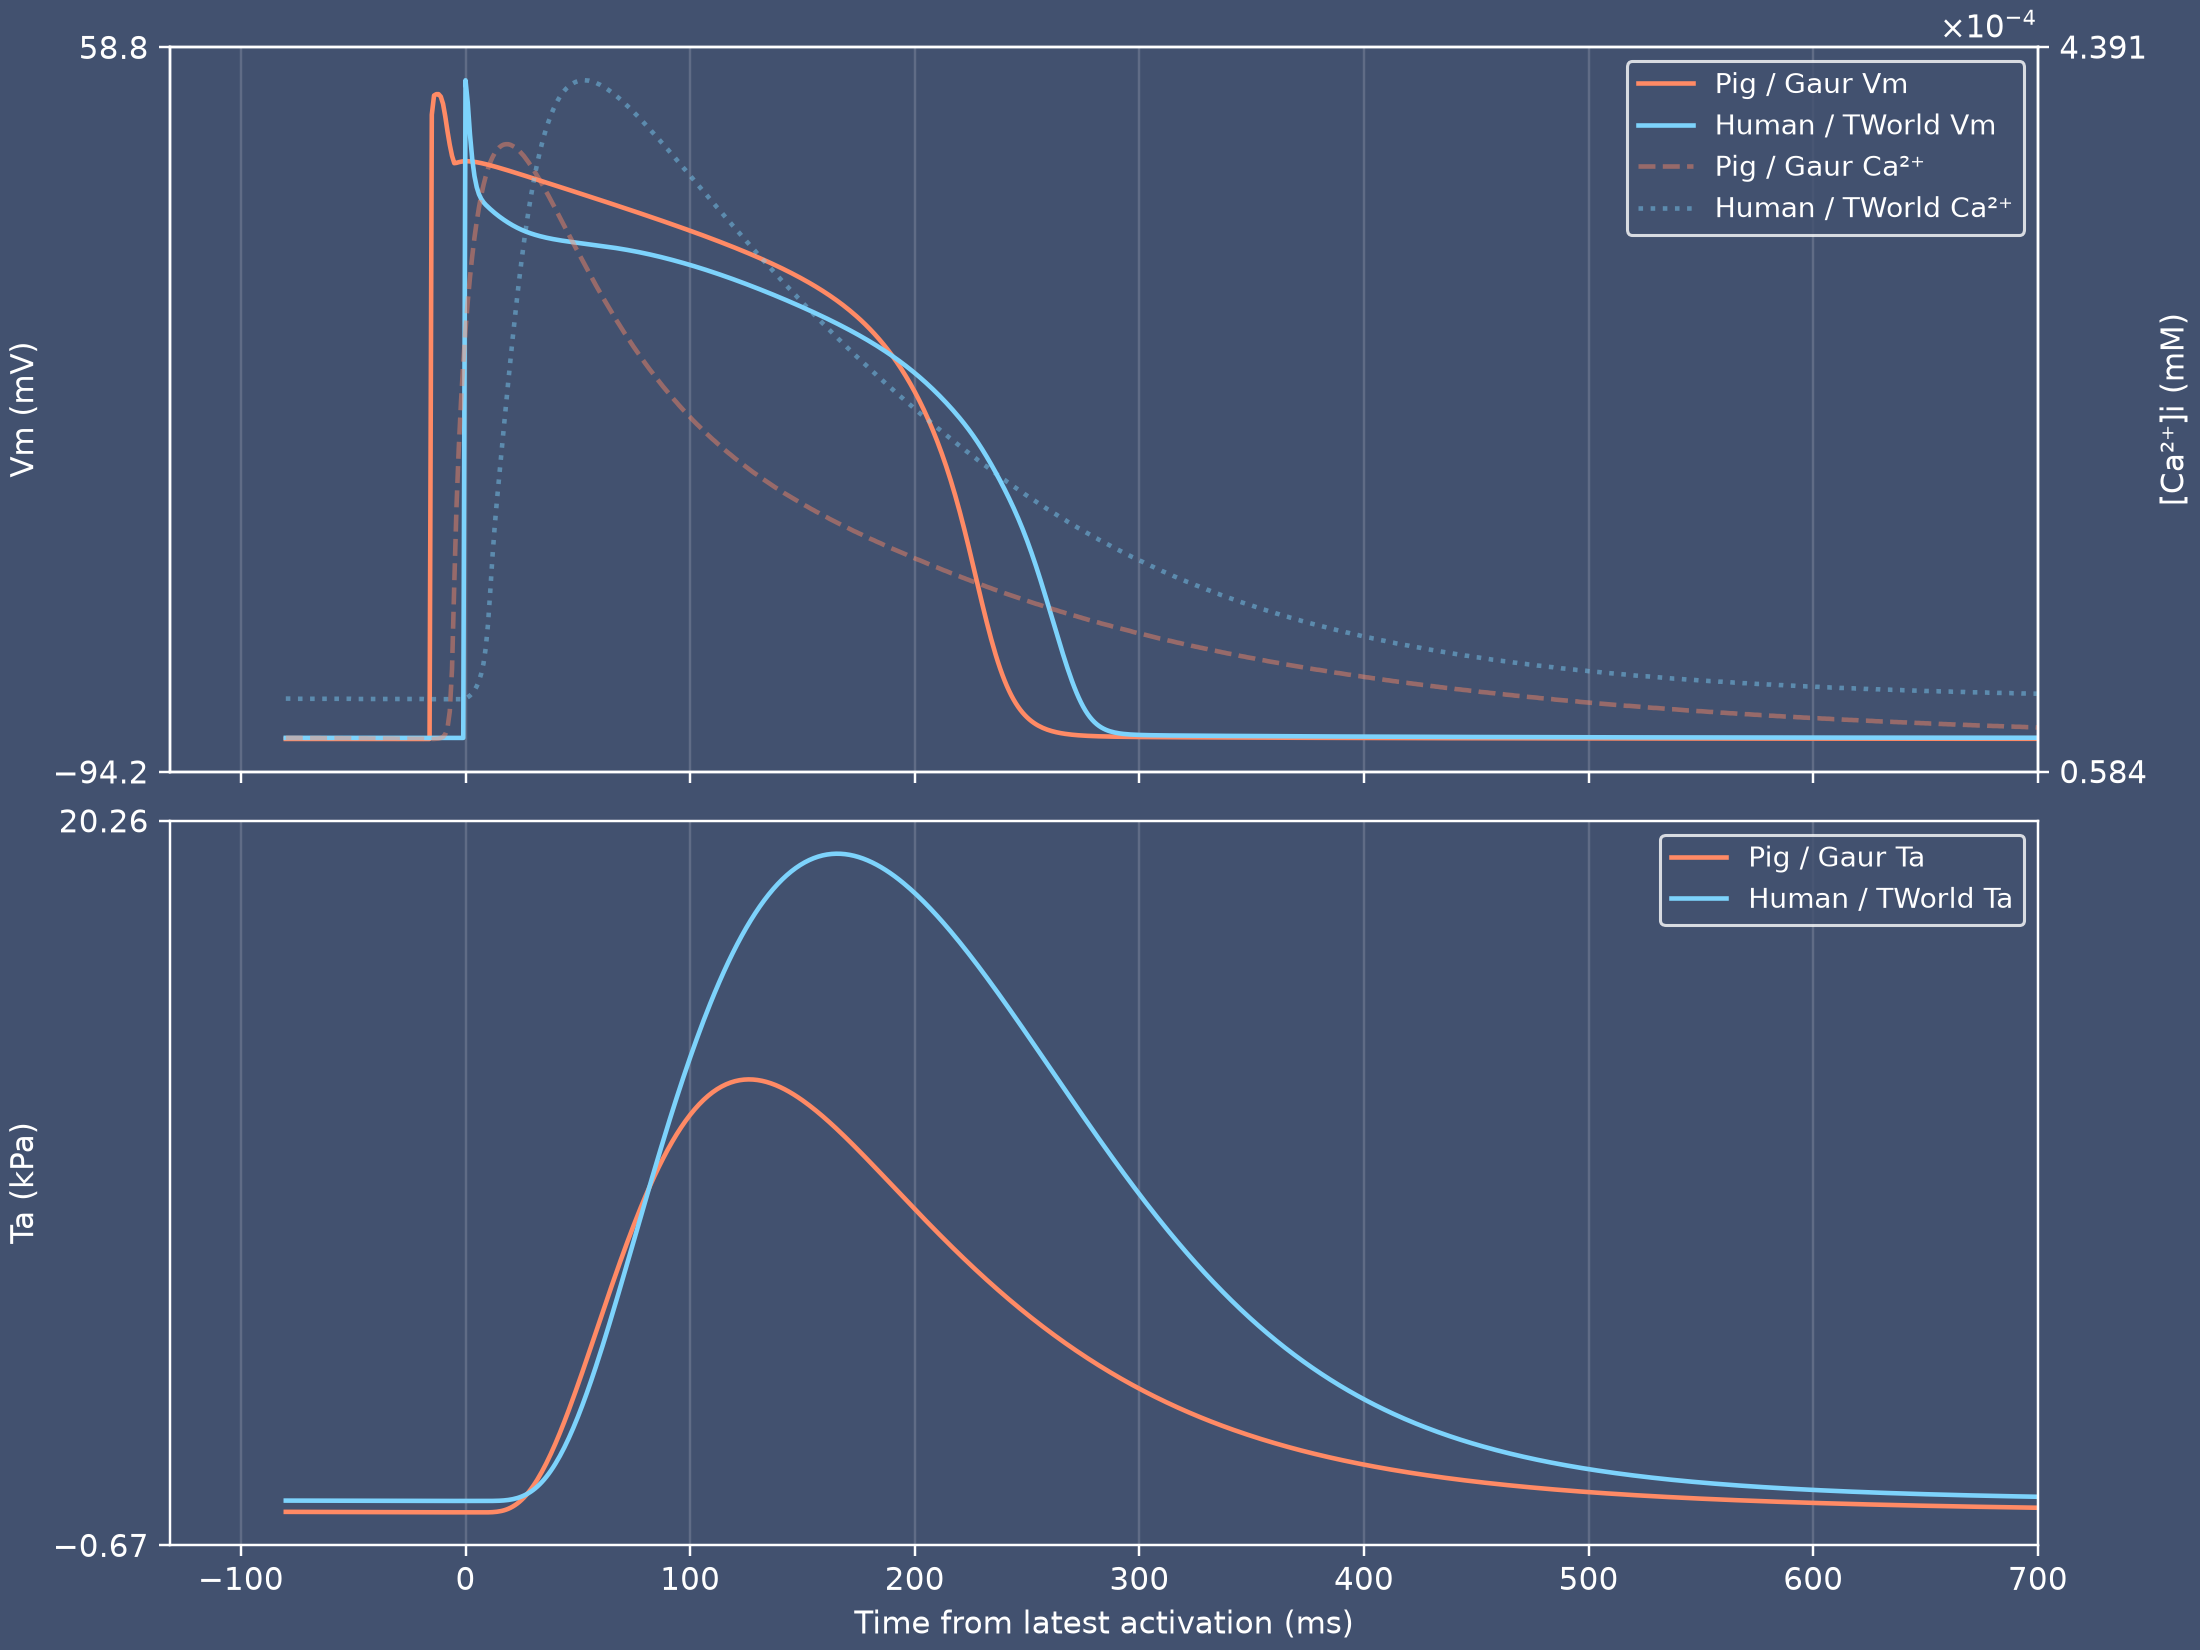
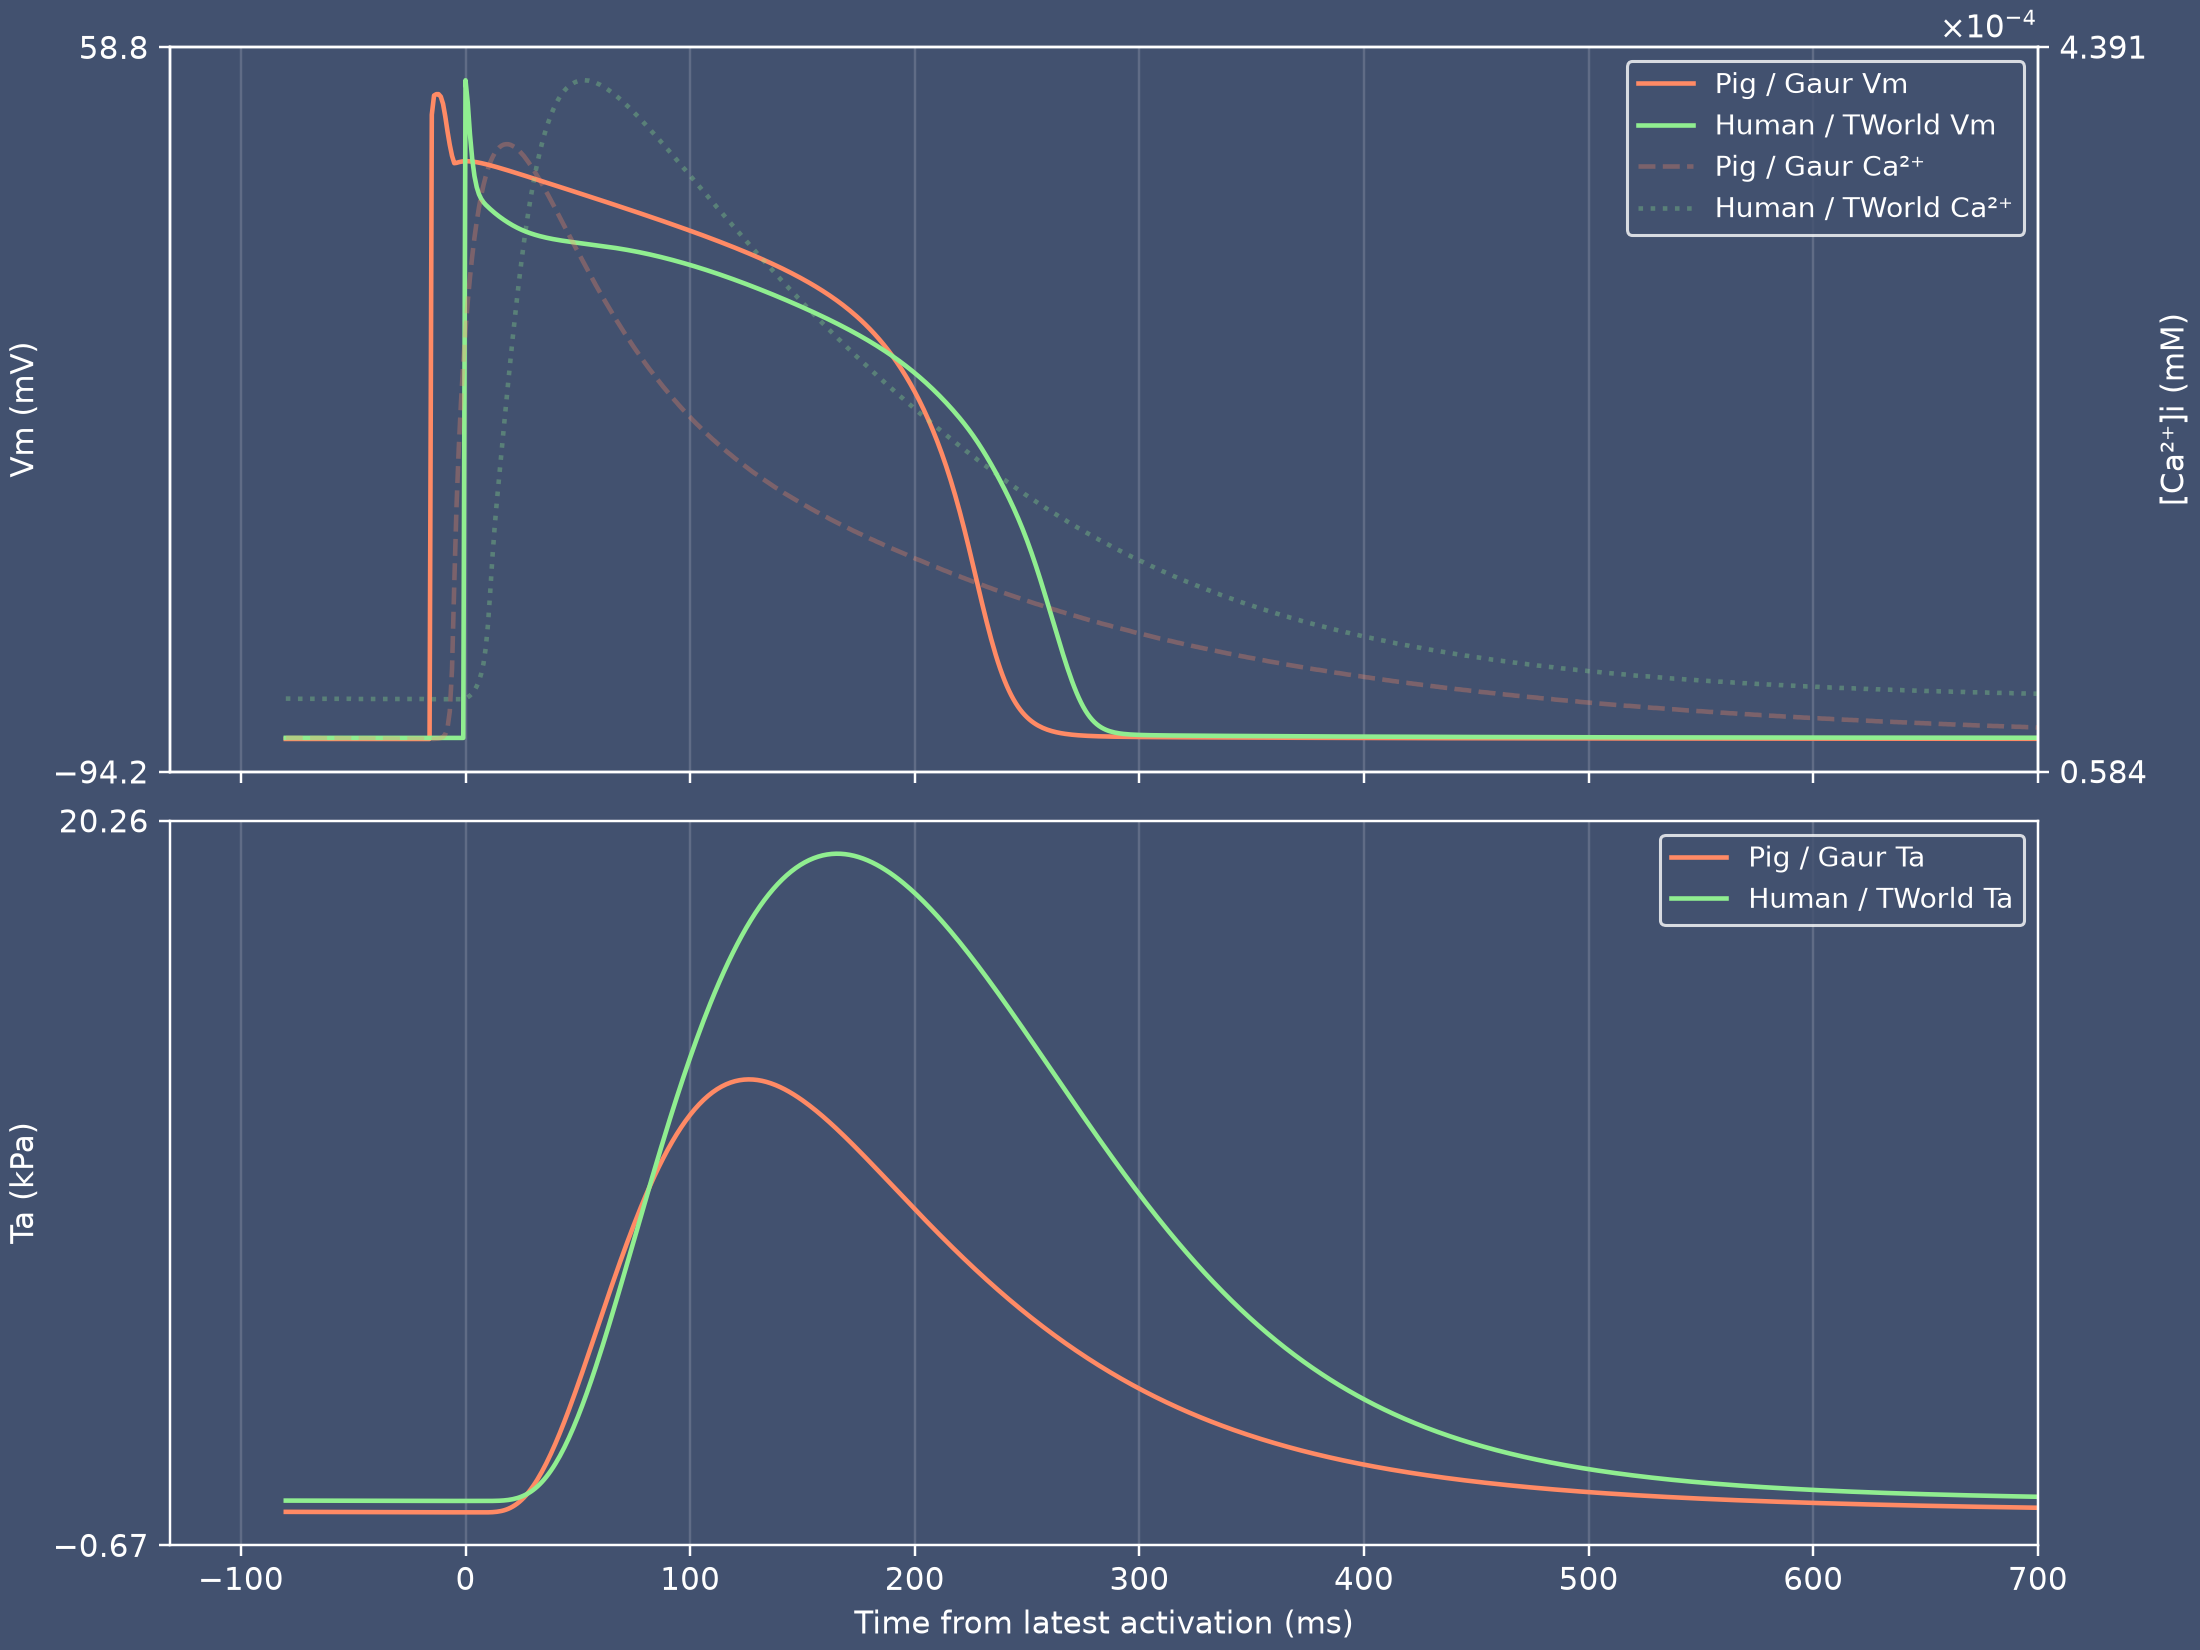
Refine study figure colors

diff --git a/tutorials/electrophysiologyProtocols/singleCell/setup/studies/tworldVsGaur/postprocess_tworld_vs_gaur.py b/tutorials/electrophysiologyProtocols/singleCell/setup/studies/tworldVsGaur/postprocess_tworld_vs_gaur.py
@@ -236,7 +236,7 @@ def _plot_core_waveforms(traces: list[Trace], out: Path, cl_ms: float = 1000.0) 
         facecolor=background,
     )
     calcium_ax = axes[0].twinx()
-    colors = {"Gaur": "#FF8A65", "TWorld": "#7DD3FC"}
+    colors = {"Gaur": "#FF8A65", "TWorld": "#90EE90"}
     calcium_styles = {"Gaur": "--", "TWorld": ":"}
     for trace in selected:
         rel_time, mask = _last_beat(trace)
@@ -247,7 +247,7 @@ def _plot_core_waveforms(traces: list[Trace], out: Path, cl_ms: float = 1000.0) 
             trace.data["cai"][mask],
             color=colors[trace.model],
             linestyle=calcium_styles[trace.model],
-            alpha=0.45,
+            alpha=0.30,
             label=f"{label} Ca²⁺",
         )
 
